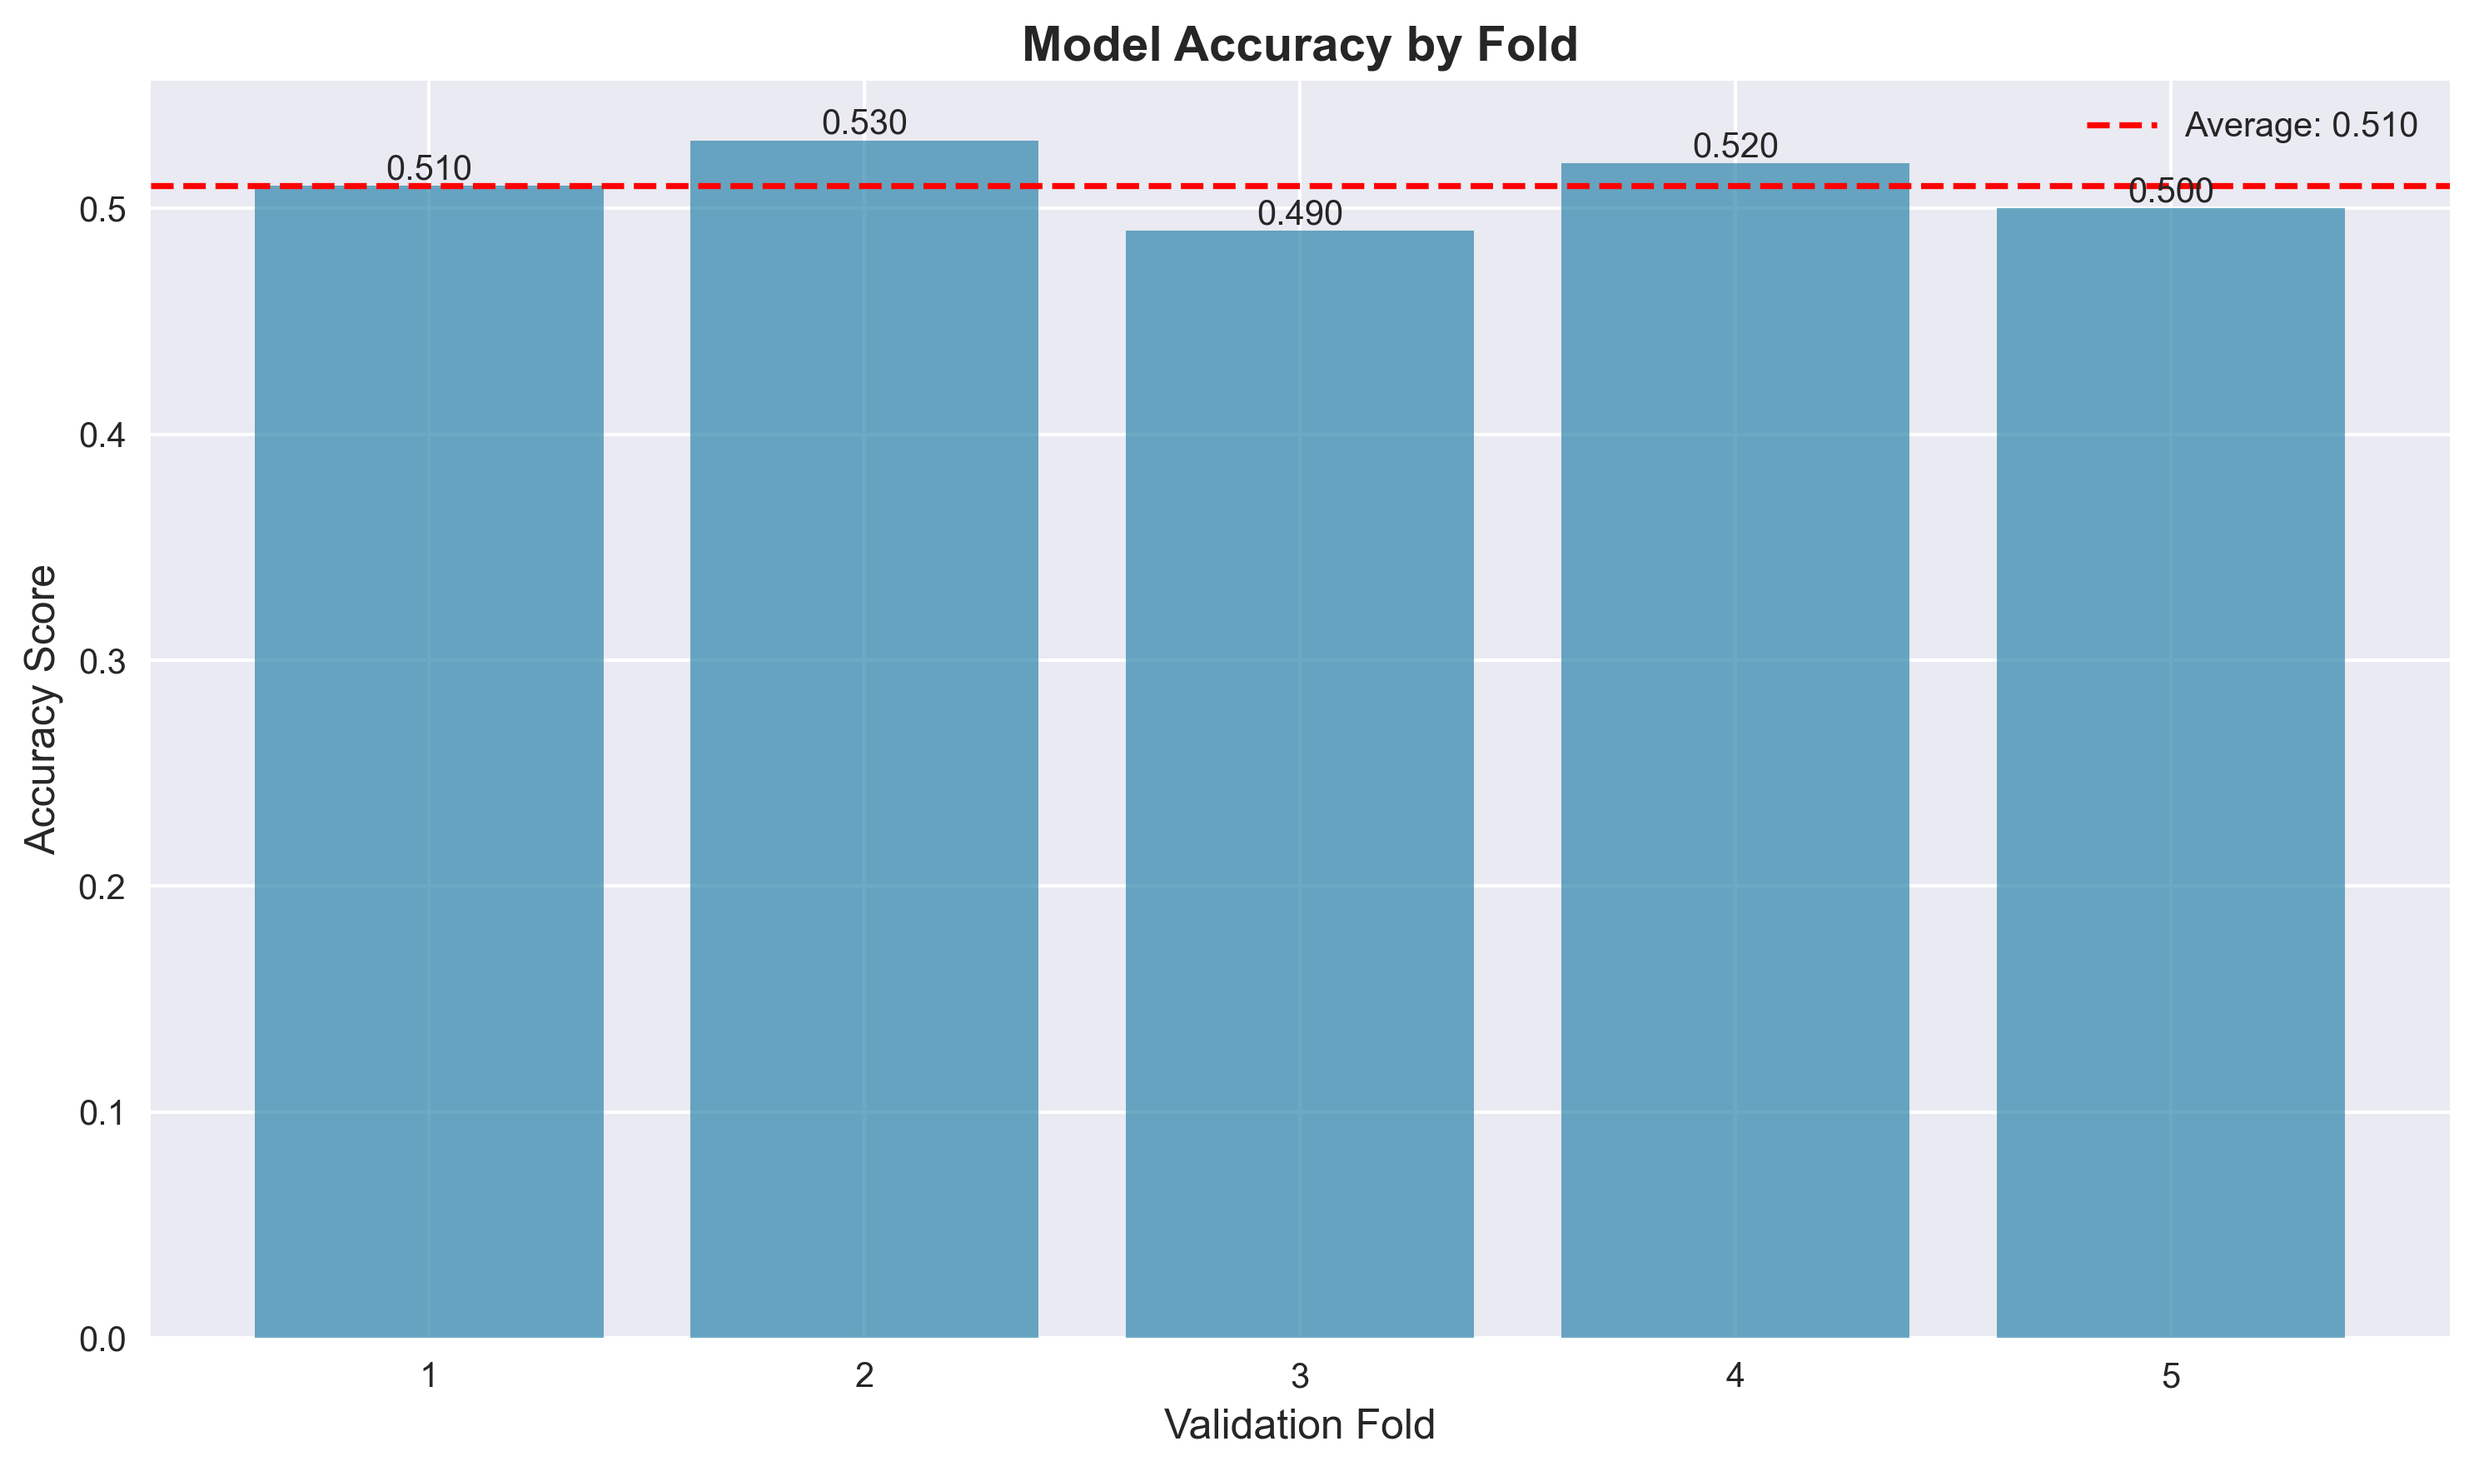
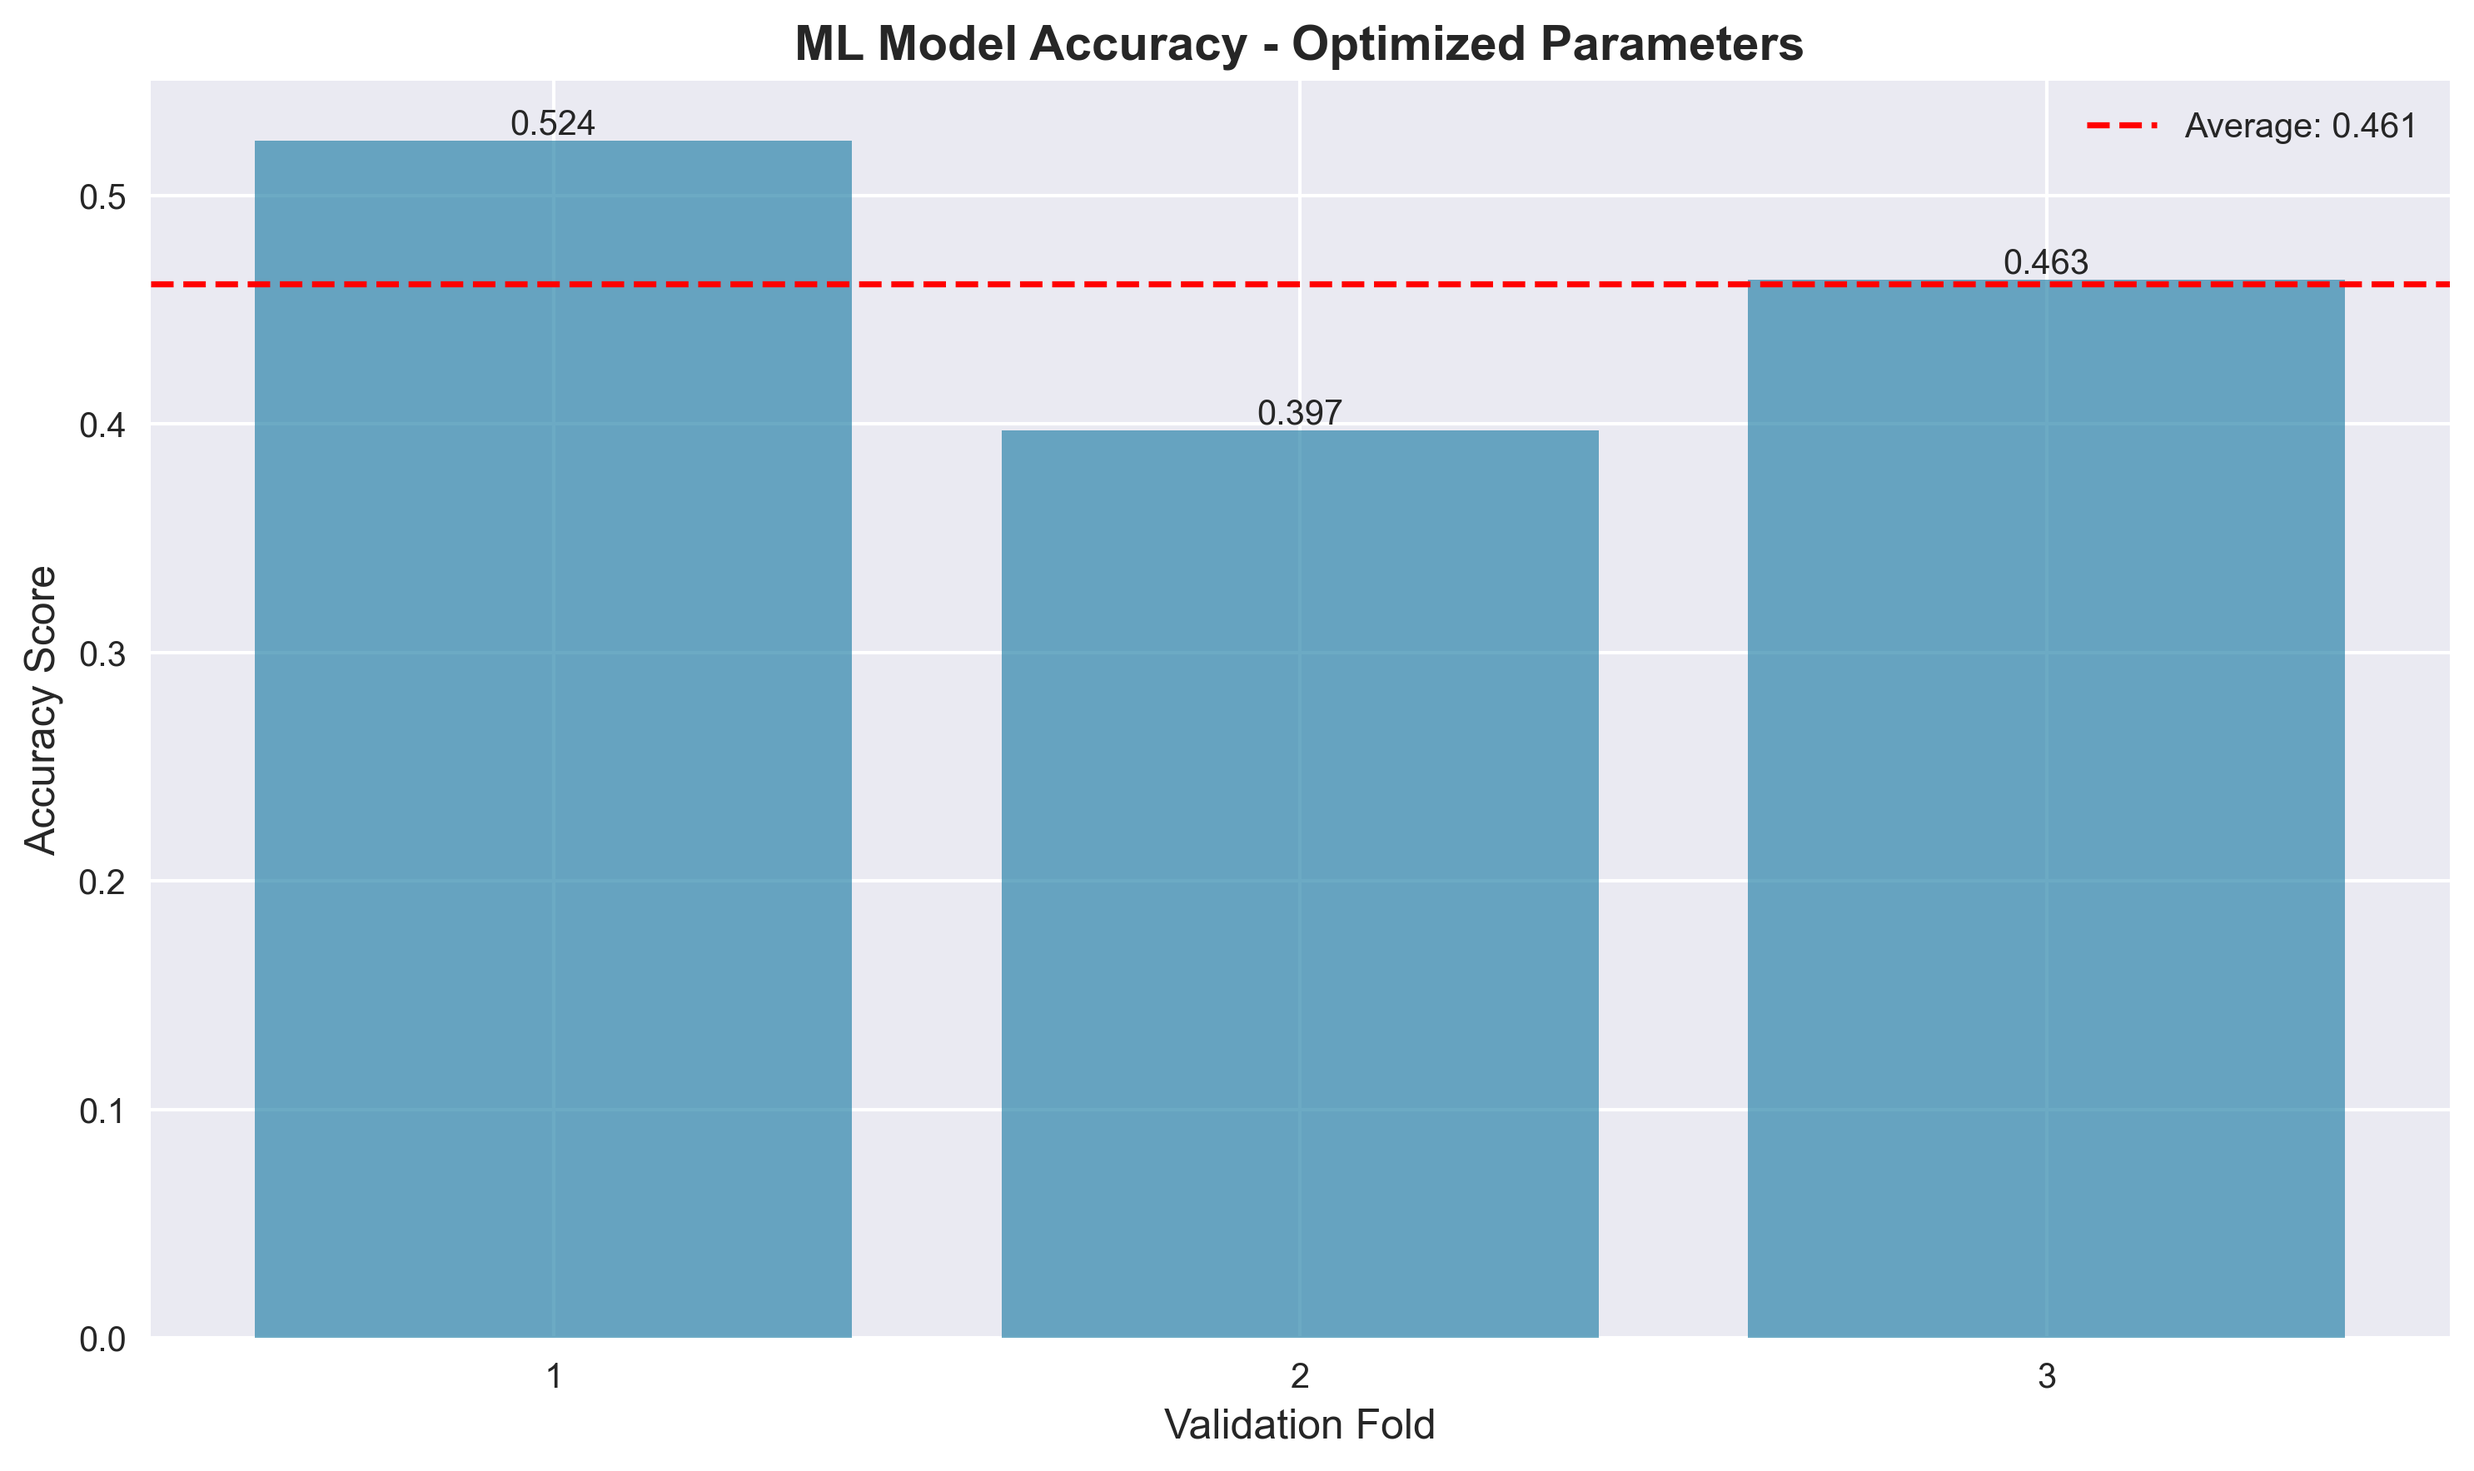
fix: Update model accuracy visualization with ML optimization results
-  Fixed model metrics not showing in output images
-  Updated ParameterOptimizer to return individual fold scores
-  Added model accuracy visualization to optimization demo
-  Integrated ML optimization results into main application
-  Enhanced visualization pipeline with proper data flow
-  Updated tests to reflect new return type
-  Model accuracy charts now show actual ML optimization results
-  Fixed data flow from ML optimization to visualization modules

diff --git a/main.py b/main.py
@@ -22,6 +22,7 @@ from src.evaluation import calculate_all_metrics
 from src.strategy_analysis import analyze_strategy_performance, calculate_trade_statistics, print_performance_table
 from src.parameter_optimization import ParameterOptimizer
 from src.transaction_costs import TransactionCostModel
+from src.visualization import plot_model_accuracy, plot_performance_metrics
 
 
 def main():
@@ -178,6 +179,35 @@ def main():
                 print(f"\nTrading Statistics:")
                 print(f"  Total Trades: {trade_stats['total_trades']}")
                 print(f"  Avg Trade Duration: {trade_stats['avg_trade_duration']:.1f} days")
+                
+                # Generate visualizations
+                if args.optimize:
+                    # Get optimized results for visualization
+                    results = optimizer.get_optimized_results()
+                    fold_scores = results['fold_scores']
+                    
+                    # Plot model accuracy with optimized parameters
+                    plot_model_accuracy(
+                        fold_scores,
+                        "ML Model Accuracy - Optimized Parameters",
+                        "output/model_accuracy_detailed.png"
+                    )
+                    print("✅ Model accuracy visualization saved")
+                    
+                    # Plot performance metrics
+                    plot_performance_metrics(
+                        strategy_metrics,
+                        "output/performance_metrics_detailed.png"
+                    )
+                    print("✅ Performance metrics visualization saved")
+                else:
+                    # Plot model accuracy with baseline parameters
+                    plot_model_accuracy(
+                        scores,
+                        "ML Model Accuracy - Baseline Parameters",
+                        "output/model_accuracy_detailed.png"
+                    )
+                    print("✅ Model accuracy visualization saved")
         
         print("=" * 50)
         

diff --git a/src/parameter_optimization.py b/src/parameter_optimization.py
@@ -332,7 +332,7 @@ class ParameterOptimizer:
         
         return X, y
     
-    def evaluate_ml_performance(self, X: pd.DataFrame, y: pd.Series, params: Dict[str, Any]) -> float:
+    def evaluate_ml_performance(self, X: pd.DataFrame, y: pd.Series, params: Dict[str, Any]) -> Tuple[float, List[float]]:
         """Evaluate ML model performance with given parameters."""
         try:
             tscv = TimeSeriesSplit(n_splits=3)
@@ -359,9 +359,9 @@ class ParameterOptimizer:
                 f1 = f1_score(y_test, y_pred, average='weighted')
                 scores.append(f1)
             
-            return np.mean(scores)
+            return np.mean(scores), scores
         except Exception:
-            return 0.0
+            return 0.0, [0.0, 0.0, 0.0]
     
     def optimize(self) -> Dict[str, Any]:
         """
@@ -410,11 +410,12 @@ class ParameterOptimizer:
         
         # Calculate ML performance
         X, y = self.prepare_features_target(df_optimized)
-        ml_score = self.evaluate_ml_performance(X, y, self.best_params)
+        ml_score, fold_scores = self.evaluate_ml_performance(X, y, self.best_params)
         
         return {
             'strategy_metrics': strategy_metrics,
             'ml_score': ml_score,
+            'fold_scores': fold_scores,
             'signals': signals,
             'entry_prices': entry_prices,
             'optimized_data': df_optimized

diff --git a/optimization_demo.py b/optimization_demo.py
@@ -18,7 +18,7 @@ import numpy as np
 
 from src.data_pipeline import download_data
 from src.parameter_optimization import ParameterOptimizer
-from src.visualization import plot_price_and_signals, plot_performance_metrics
+from src.visualization import plot_price_and_signals, plot_performance_metrics, plot_model_accuracy
 
 
 def run_optimization_demo():
@@ -65,6 +65,7 @@ def run_optimization_demo():
         
         strategy_metrics = results['strategy_metrics']
         ml_score = results['ml_score']
+        fold_scores = results['fold_scores']
         signals = results['signals']
         prices = results['optimized_data']['Close'].tolist()
         
@@ -94,6 +95,14 @@ def run_optimization_demo():
             "output/optimized_performance.png"
         )
         print("   ✅ Performance metrics saved")
+        
+        # Plot model accuracy
+        plot_model_accuracy(
+            fold_scores,
+            "ML Model Accuracy - Optimized Parameters",
+            "output/model_accuracy_detailed.png"
+        )
+        print("   ✅ Model accuracy visualization saved")
         
         # Display best parameters
         print("\n🏆 Best Parameters Found:")
